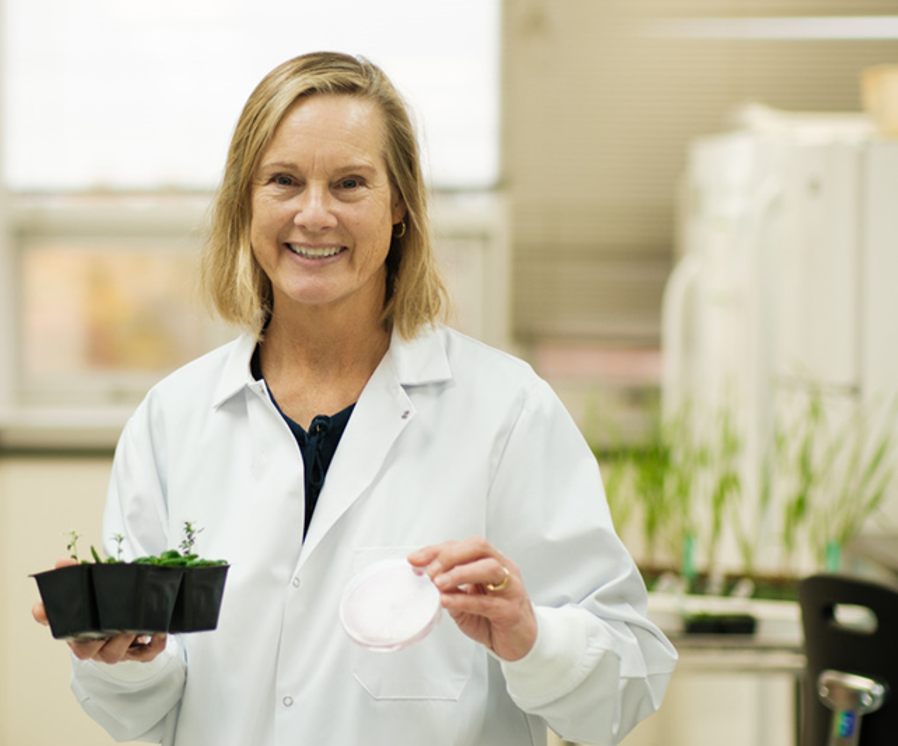
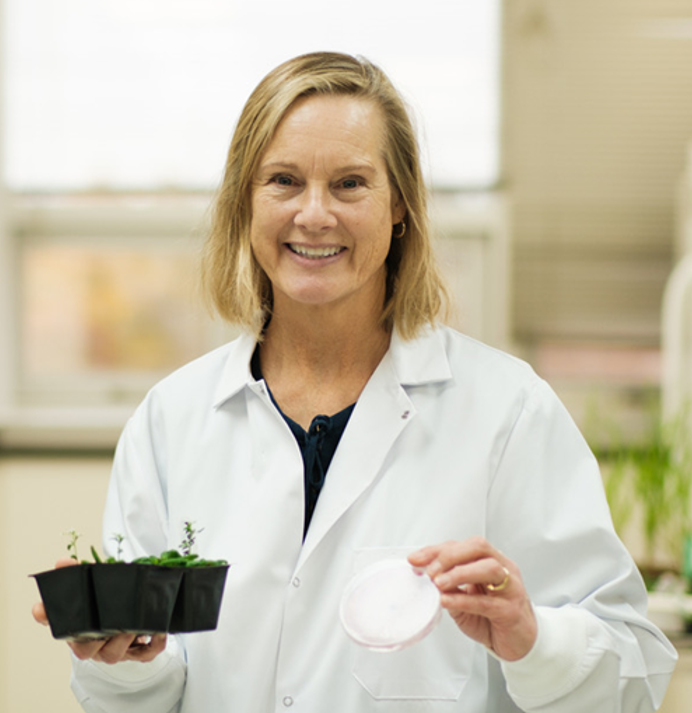
Deploy preview for PR 5 🛫

diff --git a/preview/pr-5/2019/01/07/example-post-1.html b/preview/pr-5/2019/01/07/example-post-1.html
@@ -66,10 +66,10 @@
 
   <meta name="author" content="sarah-johnson">
   <meta property="og:type" content="article">
-  <meta property="og:updated_time" content="2026-09-08T14:16:17+00:00">
+  <meta property="og:updated_time" content="2026-09-08T14:19:51+00:00">
   <meta property="article:published_time" content="2019-01-07T00:00:00+00:00">
-  <meta property="article:modified_time" content="2026-09-08T14:16:17+00:00">
-  <meta name="revised" content="2026-09-08T14:16:17+00:00">
+  <meta property="article:modified_time" content="2026-09-08T14:19:51+00:00">
+  <meta name="revised" content="2026-09-08T14:19:51+00:00">
 
 
 <script type="application/ld+json">
@@ -79,7 +79,7 @@
       "@type": "BlogPosting",
       "author": { "@type": "Person", "name": "Example post 1" },
       "datePublished": "2019-01-07T00:00:00+00:00",
-      "dateModified": "2026-09-08T14:16:17+00:00",
+      "dateModified": "2026-09-08T14:19:51+00:00",
     
     "name": "Example post 1",
     "description": "Agriculture and Agri-Food Canada. Our group studies the reproductive development of different plants and how it affects agriculture. We have a specific interest in epigenetic control of gamete formation, fertility and seed development.",

diff --git a/preview/pr-5/2021/09/30/example-post-2.html b/preview/pr-5/2021/09/30/example-post-2.html
@@ -66,10 +66,10 @@
 
   <meta name="author" content="jane-smith">
   <meta property="og:type" content="article">
-  <meta property="og:updated_time" content="2026-09-08T14:16:17+00:00">
+  <meta property="og:updated_time" content="2026-09-08T14:19:51+00:00">
   <meta property="article:published_time" content="2021-09-30T00:00:00+00:00">
-  <meta property="article:modified_time" content="2026-09-08T14:16:17+00:00">
-  <meta name="revised" content="2026-09-08T14:16:17+00:00">
+  <meta property="article:modified_time" content="2026-09-08T14:19:51+00:00">
+  <meta name="revised" content="2026-09-08T14:19:51+00:00">
 
 
 <script type="application/ld+json">
@@ -79,7 +79,7 @@
       "@type": "BlogPosting",
       "author": { "@type": "Person", "name": "Example post 2" },
       "datePublished": "2021-09-30T00:00:00+00:00",
-      "dateModified": "2026-09-08T14:16:17+00:00",
+      "dateModified": "2026-09-08T14:19:51+00:00",
     
     "name": "Example post 2",
     "description": "Agriculture and Agri-Food Canada. Our group studies the reproductive development of different plants and how it affects agriculture. We have a specific interest in epigenetic control of gamete formation, fertility and seed development.",

diff --git a/preview/pr-5/2023/02/23/example-post-3.html b/preview/pr-5/2023/02/23/example-post-3.html
@@ -66,10 +66,10 @@
 
   <meta name="author" content="john-doe">
   <meta property="og:type" content="article">
-  <meta property="og:updated_time" content="2026-09-08T14:16:17+00:00">
+  <meta property="og:updated_time" content="2026-09-08T14:19:51+00:00">
   <meta property="article:published_time" content="2023-02-23T00:00:00+00:00">
-  <meta property="article:modified_time" content="2026-09-08T14:16:17+00:00">
-  <meta name="revised" content="2026-09-08T14:16:17+00:00">
+  <meta property="article:modified_time" content="2026-09-08T14:19:51+00:00">
+  <meta name="revised" content="2026-09-08T14:19:51+00:00">
 
 
 <script type="application/ld+json">
@@ -79,7 +79,7 @@
       "@type": "BlogPosting",
       "author": { "@type": "Person", "name": "Example post 3" },
       "datePublished": "2023-02-23T00:00:00+00:00",
-      "dateModified": "2026-09-08T14:16:17+00:00",
+      "dateModified": "2026-09-08T14:19:51+00:00",
     
     "name": "Example post 3",
     "description": "Agriculture and Agri-Food Canada. Our group studies the reproductive development of different plants and how it affects agriculture. We have a specific interest in epigenetic control of gamete formation, fertility and seed development.",
